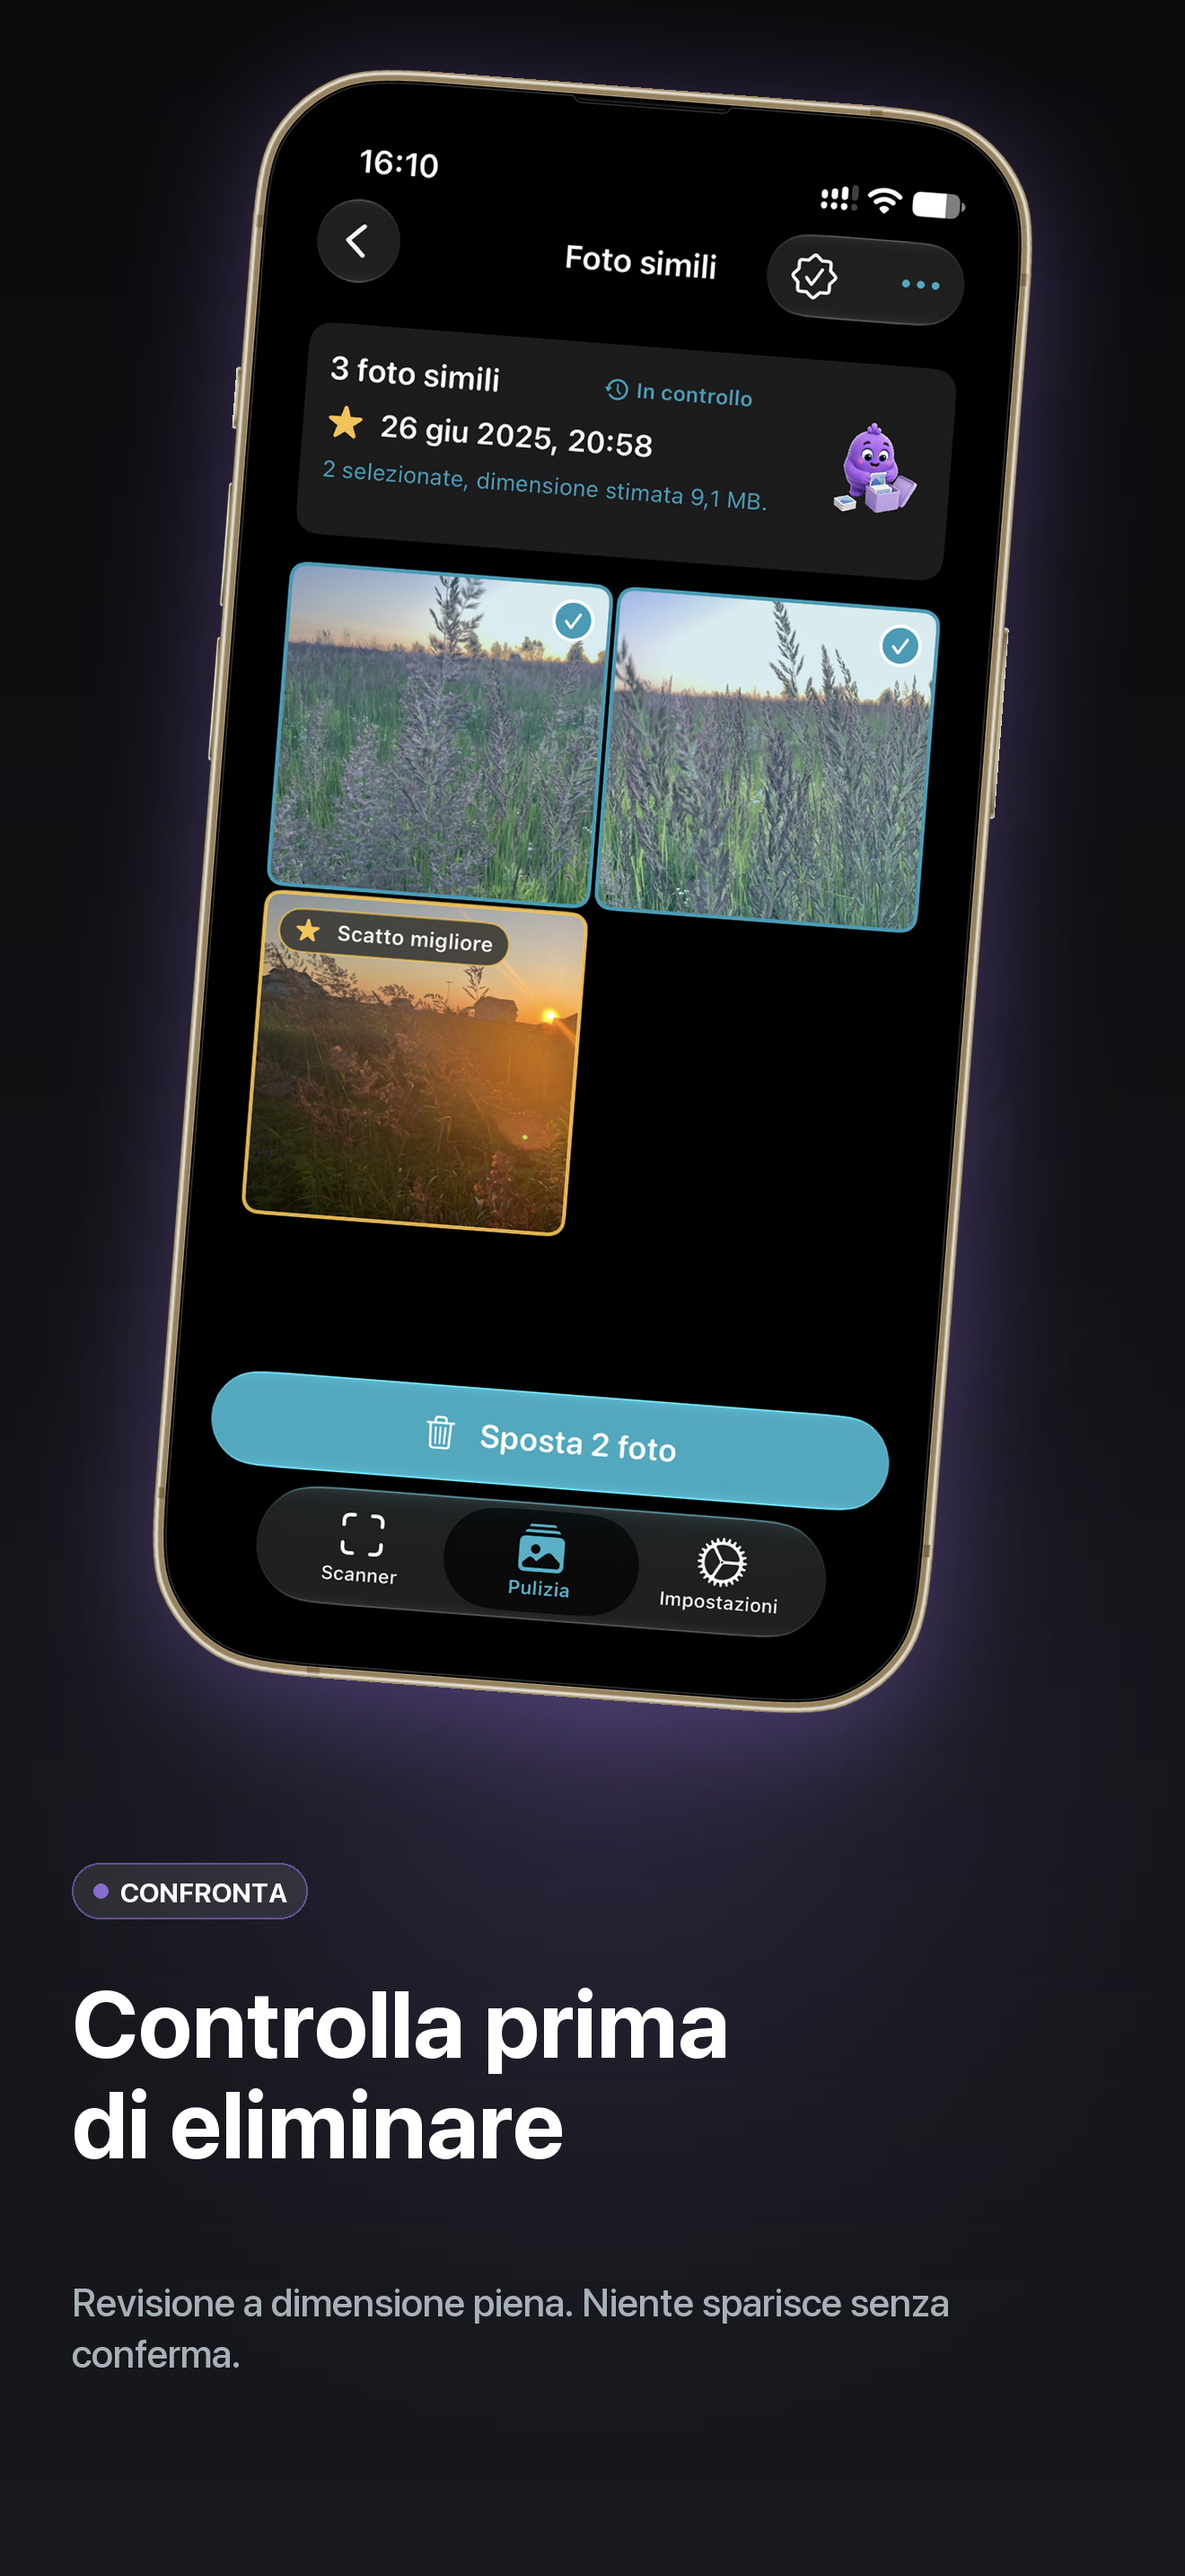
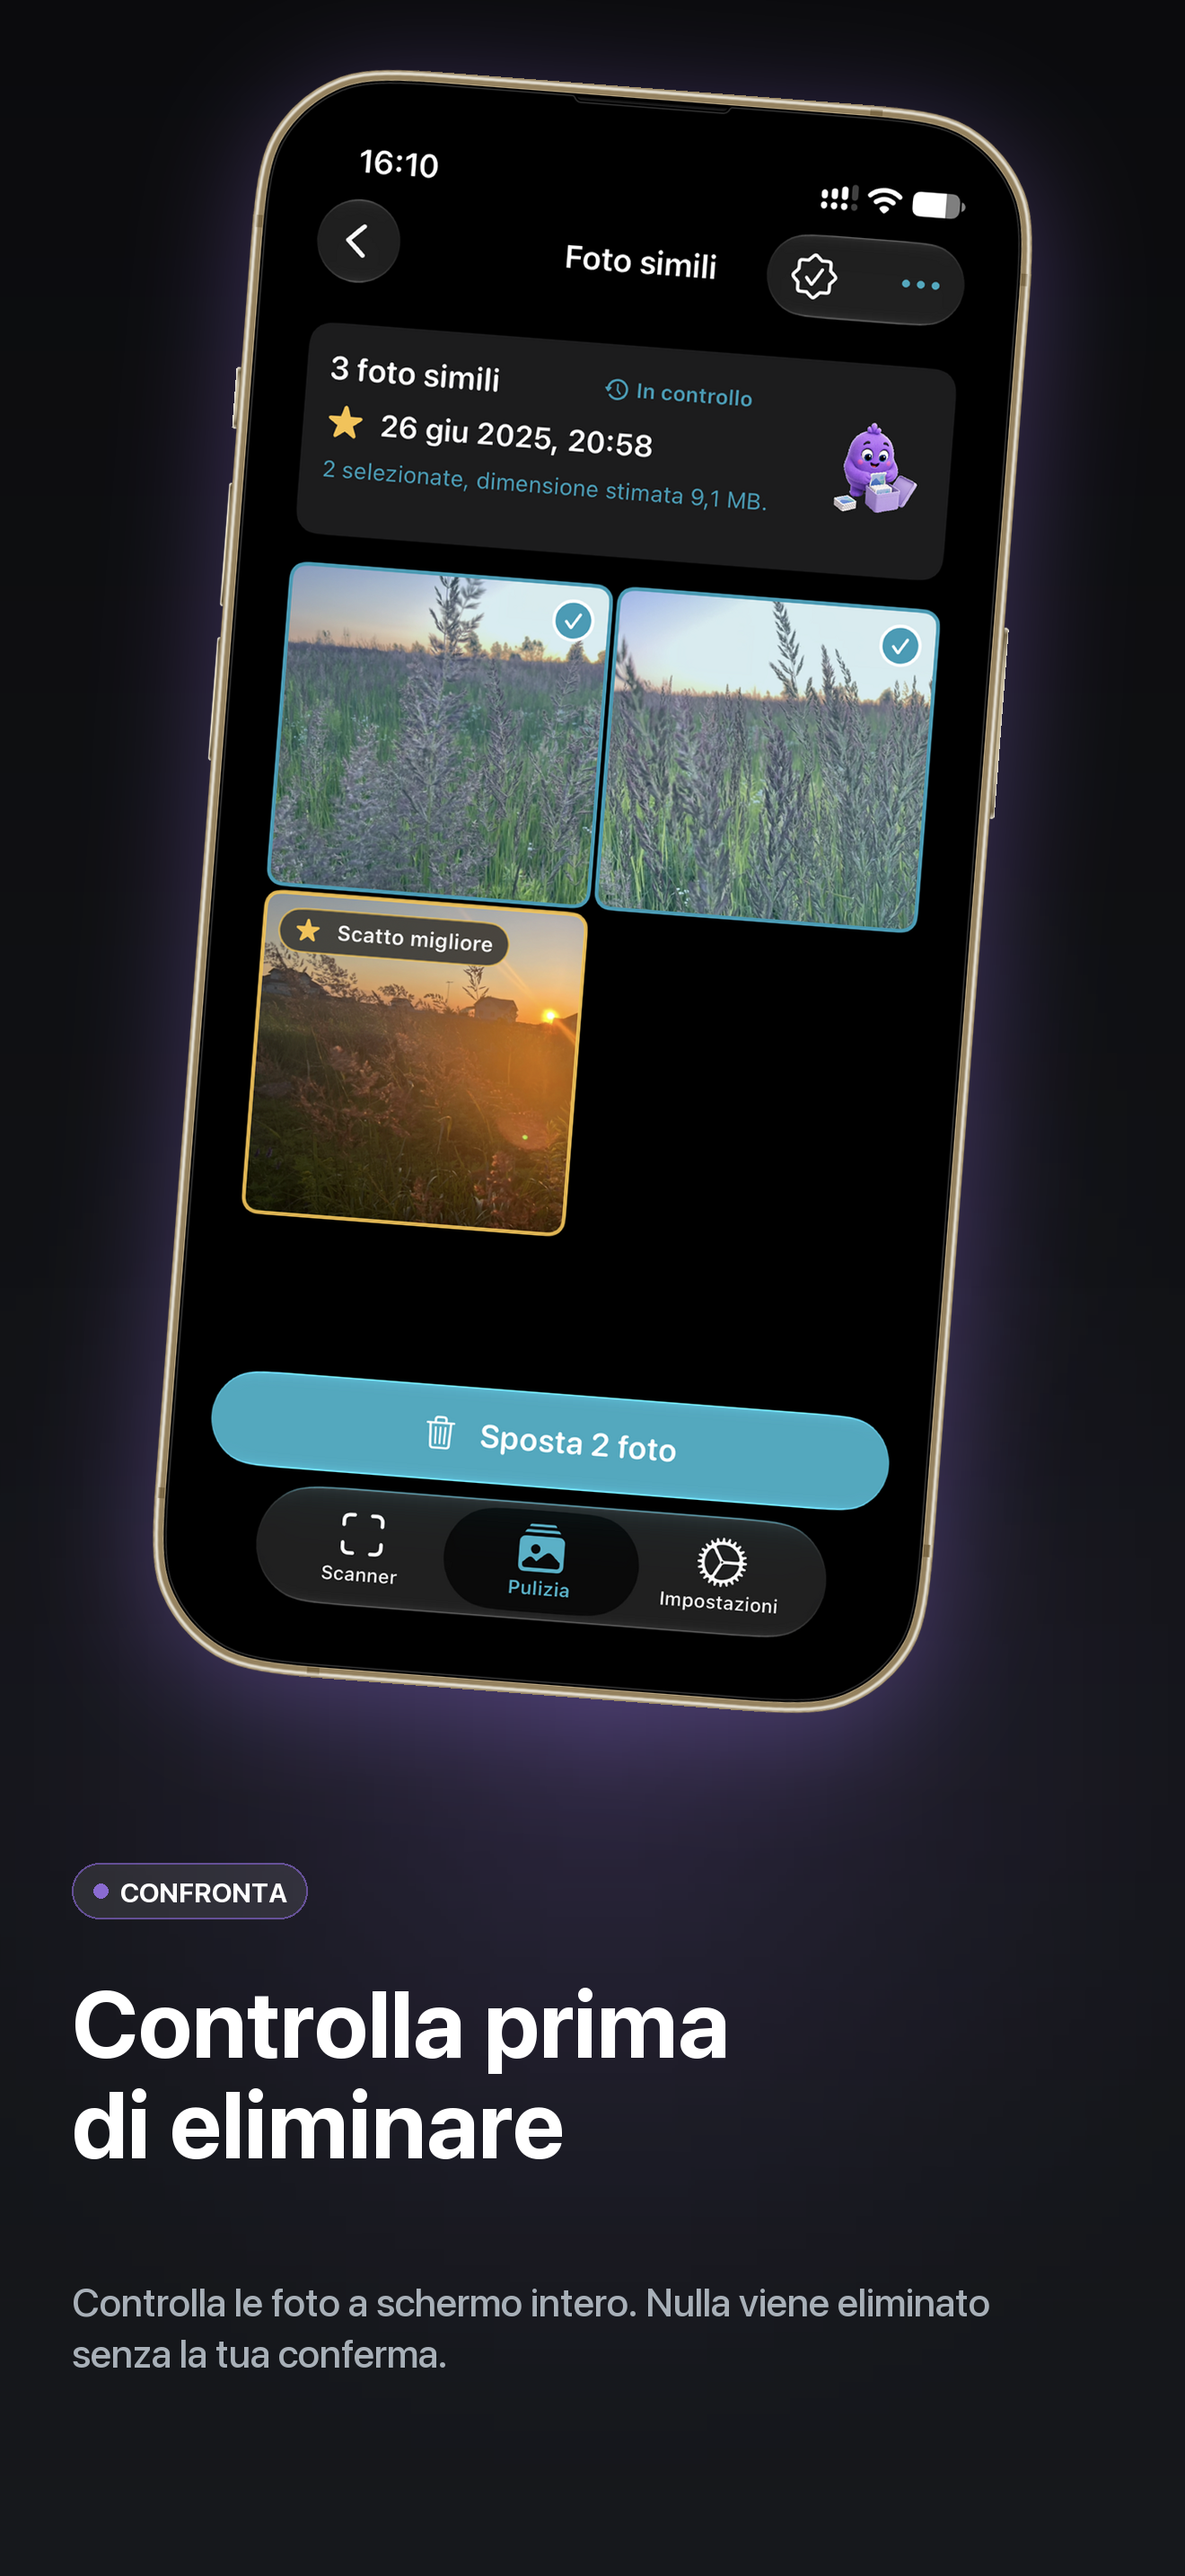
🌐 it: correct high-risk localization and App Store wording while preserving English promises, placeholders and plural categories

Changed region(s): [[0.0621, 0.8689, 0.8386, 0.931]]

diff --git a/tools/prepare_app_store_upload_bundle.py b/tools/prepare_app_store_upload_bundle.py
@@ -1256,6 +1256,88 @@ METADATA.update(
 )
 
 
+# Reviewed storefront copy; keep regional listings independent.
+METADATA['it'].update(
+    {'description': 'Alike raggruppa foto quasi identiche, sceglie la migliore e ti aiuta a eliminare le altre. '
+                'Nessuna foto lascia il tuo iPhone.\n'
+                '\n'
+                'COME FUNZIONA\n'
+                'Scansiona. Alike confronta la tua libreria con il framework Vision di Apple, interamente '
+                'sul tuo iPhone. Vengono confrontate le foto scattate vicine nel tempo e nel luogo, e gli '
+                'screenshot restano fuori dai risultati se non li richiedi.\n'
+                'Controlla. La foto migliore è già selezionata. Tieni solo quella, seleziona tutte le altre '
+                'o scegli a mano.\n'
+                'Pulisci. Conferma e le foto che hai scelto finiscono in «Eliminati di recente», dove iOS le '
+                'conserva per circa 30 giorni. Lo spazio potrebbe non liberarsi finché non le elimini '
+                'definitivamente.\n'
+                '\n'
+                'LA PRIVACY PRIMA DI TUTTO\n'
+                "- Tutta l'analisi avviene sul dispositivo con il framework Vision di Apple.\n"
+                '- Nessuna foto, miniatura o impronta caratteristica viene mai caricata online.\n'
+                '- Nessun account, nessun accesso, nessun server Alike.\n'
+                '- Nessuna analisi statistica, nessun tracciamento, nessun identificativo pubblicitario.\n'
+                "- Nessuna pubblicità in nessuna parte dell'app.\n"
+                '- La scansione e la pulizia non richiedono alcuna connessione: Alike funziona in modalità '
+                'aereo.\n'
+                '- Niente viene eliminato senza la tua conferma esplicita.\n'
+                '\n'
+                'PENSATA PER LIBRERIE VERE\n'
+                '- Tre livelli di sensibilità, dagli scatti quasi identici a foto meno simili.\n'
+                '- Riconoscimento dello scatto migliore misurato sulle foto stesse — nitidezza, esposizione, '
+                'volti e rumore — così ogni gruppo ha già una scelta sensata da tenere.\n'
+                "- Miglioramento facoltativo con un tocco per la foto che tieni, l'originale sempre a un "
+                'tocco.\n'
+                '- Indicatori di controllo: Nuovo, In controllo, Controllato e Da controllare dopo una nuova '
+                'scansione.\n'
+                '- Aggiungi o elimini foto e Alike se ne accorge, riproponendo solo i gruppi cambiati — '
+                'senza rifare tutta la scansione.\n'
+                '- Avanzamento, Selezionate e Risparmio stimato mentre lavori.\n'
+                '- Cronologia pulizia raggruppata per mese.\n'
+                '- Puoi passare da un layout a una colonna a una griglia più fitta. Alike ricorda la tua '
+                'scelta.\n'
+                "- Istruzioni consultabili dentro l'app, a un tocco dallo Scanner.\n"
+                '- Promemoria di pulizia facoltativi, come notifiche locali, secondo i tuoi orari.\n'
+                '- Widget nella schermata home e in quella di blocco: spazio recuperabile e libreria.\n'
+                '- Tredici lingue e modalità scura completa.\n'
+                '\n'
+                'SEI TU A DECIDERE\n'
+                "- Il miglioramento non distrugge nulla: l'originale resta nella tua libreria e un tocco lo "
+                'ripristina.\n'
+                '- Alike impara dagli scatti migliori che scegli tu — sul tuo dispositivo, e puoi azzerarlo '
+                'quando vuoi in Impostazioni.\n'
+                '- Impostazioni, poi Dati e privacy, poi Elimina i dati di Alike cancella i risultati delle '
+                'scansioni, la cronologia della pulizia e le preferenze — e non tocca mai la tua libreria.\n'
+                '- Concedi accesso completo o limitato: Alike lavora con quello che scegli di condividere.\n'
+                '\n'
+                'ALIKE FREE\n'
+                '- 3 scansioni per mese di calendario\n'
+                '- Controllo guidato con lo scatto migliore\n'
+                '- Miglioramento con un tocco, sempre reversibile\n'
+                '- Scatto migliore che impara dalle tue scelte\n'
+                '- Ordinamento e cronologia pulizia\n'
+                '- Pulizia di una foto alla volta\n'
+                '- Widget\n'
+                '\n'
+                'ALIKE PRO\n'
+                '- 7 giorni gratis sul piano annuale, per i nuovi abbonati idonei\n'
+                '- Scansioni illimitate\n'
+                '- Pulizia di intere selezioni in una volta\n'
+                '- Pulizia screenshot\n'
+                '- Pulizia foto sfocate\n'
+                '- Filtri avanzati\n'
+                '- Promemoria di pulizia personalizzati\n'
+                '\n'
+                'Alike Pro è un abbonamento a rinnovo automatico con piani annuale e mensile, con prezzi '
+                'nella tua valuta locale. Il piano annuale include una prova gratuita di 7 giorni per i '
+                'nuovi abbonati idonei, e la fatturazione inizia al termine della prova. Gli abbonamenti si '
+                'rinnovano automaticamente se non vengono annullati almeno 24 ore prima della fine del '
+                'periodo in corso, e il pagamento viene addebitato sul tuo account Apple. Puoi gestire o '
+                "annullare l'abbonamento in qualsiasi momento in Impostazioni di iOS.",
+ 'promotional_text': 'Stima lo spazio da recuperare. Le foto restano su iPhone. Pro gratis per 7 giorni nel '
+                     'piano annuale per i nuovi abbonati idonei. Senza pubblicità né account.'}
+)
+
+
 def parse_args() -> argparse.Namespace:
     parser = argparse.ArgumentParser(description="Prepare Alike App Store metadata and screenshots for fastlane deliver.")
     parser.add_argument(

diff --git a/tools/generate_app_store_product_screenshots.py b/tools/generate_app_store_product_screenshots.py
@@ -594,7 +594,7 @@ COPY = {
         (
             "CONFRONTA",
             "Controlla prima\ndi eliminare",
-            "Revisione a dimensione piena. Niente sparisce senza conferma.",
+            "Controlla le foto a schermo intero. Nulla viene eliminato senza la tua conferma.",
         ),
         (
             "SPAZIO LIBERO",
